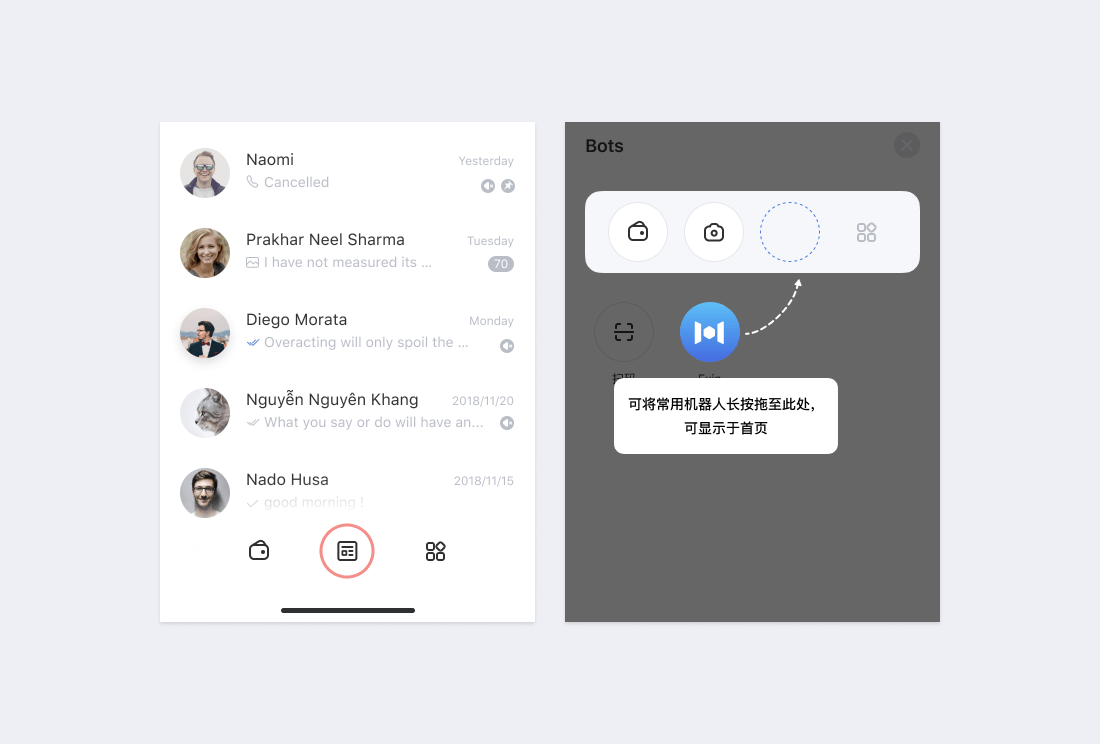
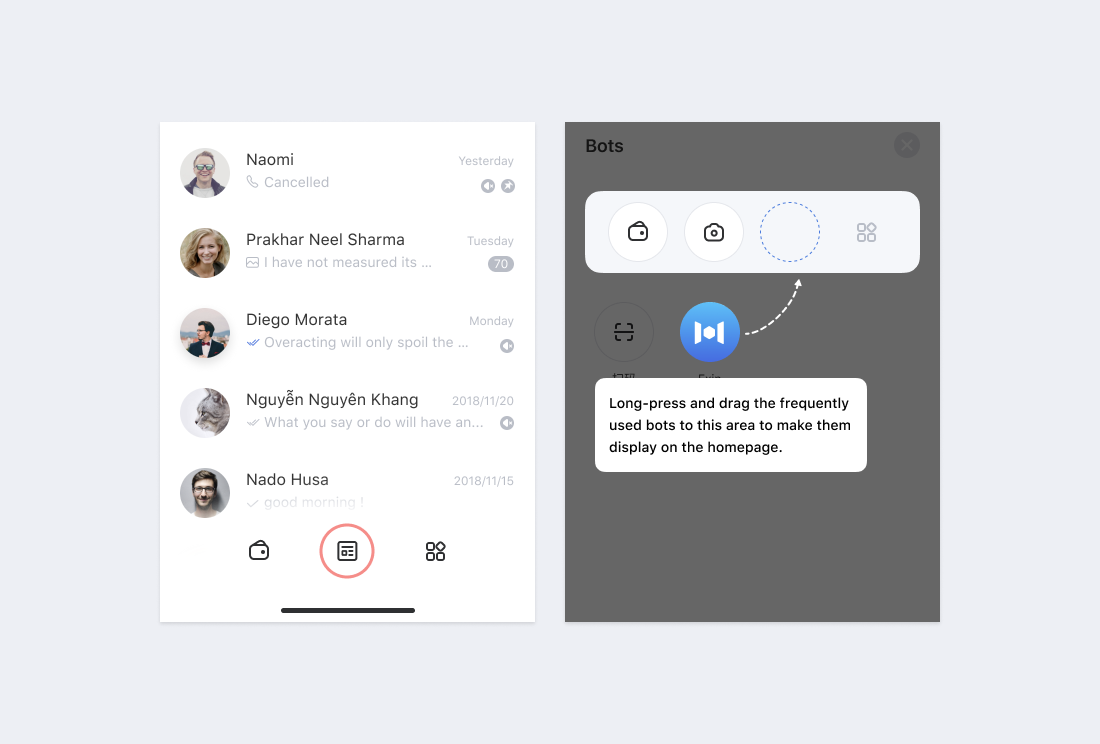
English Version Img

Changed region(s): [[0.5255, 0.4946, 0.8036, 0.6492]]

diff --git a/developers-docs/docs/dapp/design/user-interaction.md b/developers-docs/docs/dapp/design/user-interaction.md
@@ -15,7 +15,7 @@ Users can open the bot homepage for interaction through the following 4 ways:
 
   Telegram, Facebook Messenger, WeChat, and other chat software all support the function of bots (or mini-programs). As an extension of the basic chat functions, they all attach great importance to it. Mixin further delegates the right to the homepage navigation menu to the user, leaving the first-level entry to the bot development. Users can put their favorite and most commonly used bots on the homepage, and because bots are now first-level entrances, users are very likely to use them more.
   
-  ![TODO: English Version IMG, Press and drag](./user-interaction-drag.png)
+  ![Press and drag](./user-interaction-drag.png)
 
   Users can press and drag to pin the icon to the menu at the bottom of the homepage, then click the icon to open the bot homepage.
   
@@ -35,7 +35,7 @@ Users can open the bot homepage for interaction through the following 4 ways:
 
 - Bot Popup
 
-  ![TODO: English Version IMG, Click The Bot Icon](./user-interaction-profile.png)
+  ![Click The Bot Icon](./user-interaction-profile.png)
 
   On the personal page of the bot, clicking the bot icon in the lower-left corner will open the homepage of the bot.
 
@@ -43,7 +43,7 @@ Users can open the bot homepage for interaction through the following 4 ways:
 
 Click on the bot from the chat list on the homepage or click on the conversation from the bot pop-up window to enter the interactive mode of the chat window. Usually, the user will leave a message and ask a question. The bot will automatically or manually reply to the user with text, pictures, cards, and other content. The following prompt will be displayed when the user opens the chat window with a bot for the first time:
 
-![TODO: English Version Img, Welcome](./user-interaction-welcome.png)
+![Welcome](./user-interaction-welcome.png)
 
 Click the "Open Homepage" button to open the bot homepage, and click "Hello" to send a text message of `Hi` to the bot.
 
@@ -51,11 +51,11 @@ Click the "Open Homepage" button to open the bot homepage, and click "Hello" to 
 
   When the user adds the current bot as a contact, the bot will receive a message "Hello" from the system. The bot will reply with the introduction of itself and guide the user on how to use it. Furthermore, a paragraph of text, plus one or more buttons could be sent to the user, so that the user can click a button to open the bot homepage or get more introduction information, for example:
 
-  ![TODO: English Version Img, Adding Bots](./user-interaction-add-bot.png)
+  ![Adding Bots](./user-interaction-add-bot.png)
 
   When a user encounters a problem and leaves a message to the bot, the bot should set some keywords to automatically reply. If the question cannot be answered with keywords, it should be forwarded to the customer service or the developer to help the user solve the problem.
 
-  ![TODO: English Version Img, Reply](./user-interaction-reply.png)
+  ![Reply](./user-interaction-reply.png)
 
   Bot Team Mixin 7000 is the official customer service bot for Mixin Messenger. If users have questions, they can leave a message, or send "download" to get automatic response content.
 
@@ -63,7 +63,7 @@ Click the "Open Homepage" button to open the bot homepage, and click "Hello" to 
 
   Bots will push important notifications to users, such as new events or announcements:
 
-  ![TODO: English Version Img, Notice](./user-interaction-notice.png)
+  ![Notice](./user-interaction-notice.png)
 
   If the content is short, it is recommended to push text messages. If the content is long, it is recommended to push as a POST article message， which supports the markdown format. Send the markdown content to the 7000103014 bot to convert it to the POST article message format.
   
@@ -71,6 +71,6 @@ Click the "Open Homepage" button to open the bot homepage, and click "Hello" to 
 
   Command interaction is cool, but it is a steep learning curve on the user side. Set the action of APP_BUTTON in the format `input:SOMETHING` to get the ability to automatically send messages by clicking the button, which is very practical. For example, the action of the current App Button is `input:subscribe`. When the user clicks this button, the client will automatically send a message with the text `subscribe` to the bot, and the developer can arbitrarily specify the text after `input`.
 
-  ![TODO: English Version Img, Command interaction](./user-interaction-cmd.png)
+  ![Command interaction](./user-interaction-cmd.png)
 
   The actions of the above 4 buttons are `input:8 A`, `input:8 B`, `input:8 C`, and `input:8 D`. When the user clicks the button, the client will automatically send `8 A`, `8 B`, `8 C`, and `8 D`.

diff --git a/developers-docs/docs/dapp/design/overview.md b/developers-docs/docs/dapp/design/overview.md
@@ -26,7 +26,7 @@ The Mixin Messenger bot design guide aims to provide users with an easy-to-use, 
 
 Each page should have clear highlights and hierarchy so that users can quickly understand the content of the page and try to avoid elements that are irrelevant to the content.
 
-![TODO: English Version IMG, Highlights](./overview-point.png)
+![Highlights](./overview-point.png)
 
 ### Minimizing Input
   
@@ -44,7 +44,7 @@ Minimize user input when designing the bot page, and use existing interfaces and
 
 The bot menu is fixed floating in the upper right corner. Developers should reserve space in this area when designing the interface to avoid interaction conflicts caused by occlusion.
 
-![TODO: English Version IMG, Avoiding Bot Manu](./overview-nav-capsule.png)
+![Avoiding Bot Manu](./overview-nav-capsule.png)
 
 ### Avoiding Too Many Notifications
 

diff --git a/developers-docs/docs/mainnet/concepts/xin.md b/developers-docs/docs/mainnet/concepts/xin.md
@@ -41,7 +41,6 @@ As of November 2020, there are about 430,000 XIN uncirculated and kept in mining
 - There are 150,000 XIN in circulation in the market, mainly for exchanges, node queuing, swap market-making, wallets, etc.
 
 ### Trade
-- 4swap, Search for bot 7000103537 in Mixin Messenger. XIN trading pair fund pool has exceeded 2 million dollars.
-- ExinSwap, Search for bot 7000102352, XIN-USDT trading pair fund pool has exceeded 1 million dollars.
+- 4swap, Search for bot 7000103537 in Mixin Messenger. XIN trading pair fund pool has exceeded 7 million dollars.
+- ExinSwap, Search for bot 7000102352, XIN-USDT trading pair fund pool has exceeded 3 million dollars.
 - [BigONE](https://big.one/trade/XIN-EOS)
-- [WhaleEx](https://www.whaleex.com/trade/XIN_USDT)

diff --git a/developers-docs/docs/mainnet/concepts/chain.md b/developers-docs/docs/mainnet/concepts/chain.md
@@ -12,7 +12,7 @@ Mixin Network is a second layer for 40 public chains such as Bitcoin, Ethereum, 
 
 Visit https://mixin.one/network/chains to view the current public chain data block synchronization, transaction fees, and other information.
 
-![TODO: English Version Img. Public Chain Browser](https://mixin-assets.zeromesh.net/mixin/attachments/1594295020-60035455dce2aea21e02d7f4a42ea1a2b230413083f28bc4608a7e10dc762823)
+![Public Chain Browser](./chain.png)
 
 - Green status means normal, red means abnormal block synchronization.
 - Withdrawal fees are dynamic and automatically adjusted according to network traffic conditions.

diff --git a/developers-docs/docs/dapp/design/dark-mode.md b/developers-docs/docs/dapp/design/dark-mode.md
@@ -9,6 +9,6 @@ The light and dark appearance modes of the Mixin Messenger client adaptive syste
 
 The Mixin Messenger App including the bot interfaces will automatically adapt to the light or dark mode of the native system:
 
-![TODO: English Version Img, Dark Mode](./dark-mode.png)
+![Dark Mode](./dark-mode.png)
 
 The bot can also obtain the accurate appearance model of the client through JS, and adapting to it can help users get a better consistent experience, see [document](../get-started/js).

diff --git a/developers-docs/docs/dapp/design/floating-menu.md b/developers-docs/docs/dapp/design/floating-menu.md
@@ -7,4 +7,4 @@ sidebar_position: 10
 
 The bot menu is always displayed in the upper right corner, including 4 functions: share, floating window, about and refresh. When the bot turns on the immersive mode, this area should be reserved to avoid interactive conflicts caused by occlusion.
 
-![TODO: English Version Img, Nav-capsule](./overview-nav-capsule.png)
+![Nav-capsule](./overview-nav-capsule.png)

diff --git a/developers-docs/docs/dapp/design/immersive-mode.md b/developers-docs/docs/dapp/design/immersive-mode.md
@@ -13,7 +13,7 @@ Go to [Dashboard](/dashboard), click on the left to select the current bot, scro
 
 ### Design Adaptation
 
-![TODO: English Version Img, Immersive Mode](./immersive-mode.png)
+![Immersive Mode](./immersive-mode.png)
 
 The rendering on the right perfectly interprets the immersive mode. Note that the theme color does not support gradient colors.
 

diff --git a/developers-docs/docs/dapp/design/title-bar.md b/developers-docs/docs/dapp/design/title-bar.md
@@ -7,6 +7,6 @@ sidebar_position: 9
 
 The bot has a title bar by default and is not controlled by the bot. The icon and name of the current bot are displayed.
 
-![TODO: English Version Img, Title Bar](./title-bar.png)
+![Title Bar](./title-bar.png)
 
 

diff --git a/developers-docs/docs/dapp/design/sticker.md b/developers-docs/docs/dapp/design/sticker.md
@@ -22,7 +22,7 @@ Artists can submit sticker works to Mixin Messenger.
 
 - Stickers Padding
 
-  ![Todo: English Version Img, Sticker-padding](./sticker-padding.png)
+  ![Sticker-padding](./sticker-padding.png)
 
 ### Submitting sticker
 
